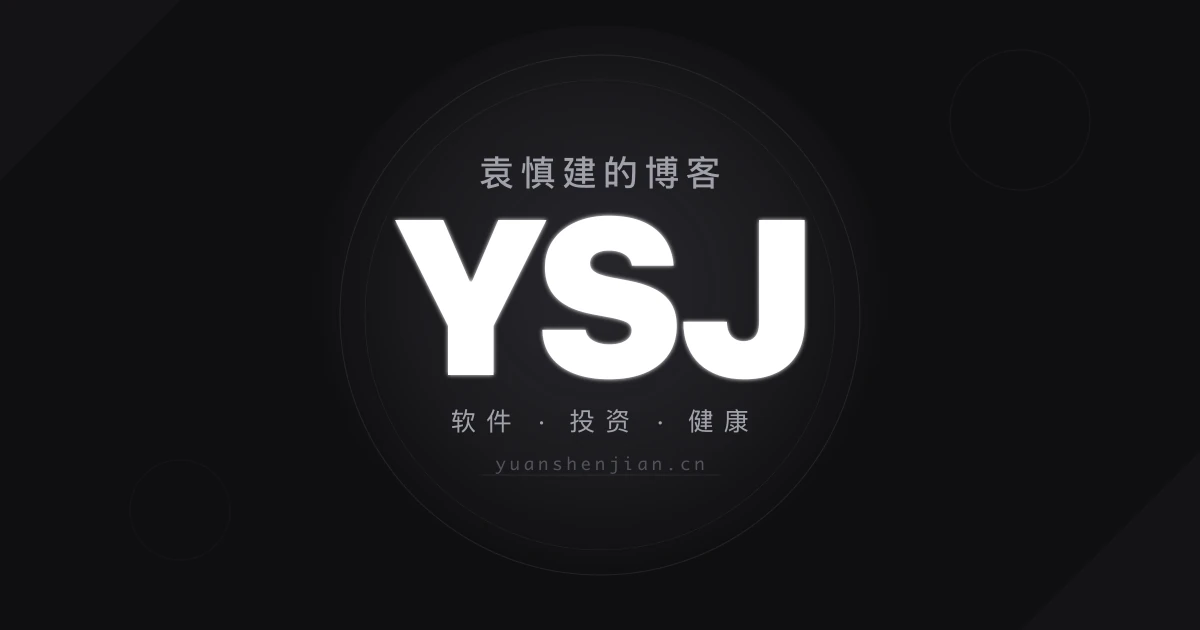
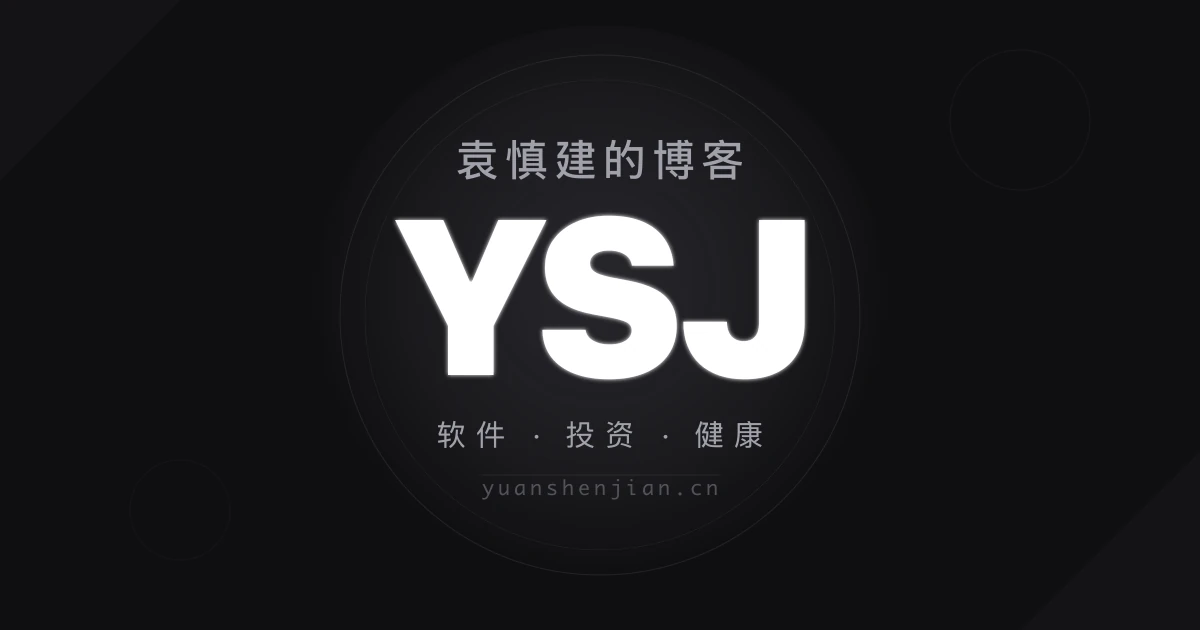
feat: polish

Changed region(s): [[0.37, 0.2111, 0.6167, 0.3016], [0.37, 0.6333, 0.555, 0.7841], [0.555, 0.6333, 0.6475, 0.7238]]

diff --git a/scripts/generate-og-image.js b/scripts/generate-og-image.js
@@ -59,12 +59,12 @@ const svg = `
   <!-- 左下角圆环装饰 -->
   <circle cx="180" cy="510" r="50" fill="none" stroke="${accentMuted}" stroke-width="1" opacity="0.12"/>
   
-  <!-- 袁慎建的博客 - 继续下移 -->
-  <text x="600" y="185" font-family="system-ui, -apple-system, BlinkMacSystemFont, 'Segoe UI', sans-serif" font-size="36" font-weight="500" fill="${accentColor}" text-anchor="middle" letter-spacing="6">
+  <!-- 袁慎建的博客 - 字体放大 -->
+  <text x="600" y="175" font-family="system-ui, -apple-system, BlinkMacSystemFont, 'Segoe UI', sans-serif" font-size="44" font-weight="500" fill="${accentColor}" text-anchor="middle" letter-spacing="6">
     袁慎建的博客
   </text>
   
-  <!-- YSJ 超大字体 - 继续下移 -->
+  <!-- YSJ 超大字体 - 保持不动 -->
   <text x="600" y="375" font-family="system-ui, -apple-system, BlinkMacSystemFont, 'Segoe UI', sans-serif" font-size="220" font-weight="800" fill="${primaryColor}" text-anchor="middle" letter-spacing="-2" filter="url(#glow)">
     YSJ
   </text>
@@ -72,13 +72,13 @@ const svg = `
   <!-- 分隔线 -->
   <line x1="480" y1="475" x2="720" y2="475" stroke="${accentSubtle}" stroke-width="1" opacity="0.4"/>
   
-  <!-- 三个关键词 - 大幅上移 -->
-  <text x="600" y="430" font-family="system-ui, -apple-system, 'Segoe UI', sans-serif" font-size="26" font-weight="400" fill="${accentColor}" text-anchor="middle" letter-spacing="10">
+  <!-- 三个关键词 - 稍微下移，字体放大 -->
+  <text x="600" y="445" font-family="system-ui, -apple-system, 'Segoe UI', sans-serif" font-size="30" font-weight="400" fill="${accentColor}" text-anchor="middle" letter-spacing="10">
     软件 · 投资 · 健康
   </text>
   
-  <!-- 域名 - 大幅上移 -->
-  <text x="600" y="470" font-family="'SF Mono', Monaco, 'Cascadia Code', monospace" font-size="17" font-weight="400" fill="${accentMuted}" text-anchor="middle" letter-spacing="4">
+  <!-- 域名 - 稍微下移，字体放大 -->
+  <text x="600" y="495" font-family="'SF Mono', Monaco, 'Cascadia Code', monospace" font-size="20" font-weight="400" fill="${accentMuted}" text-anchor="middle" letter-spacing="4">
     yuanshenjian.cn
   </text>
 </svg>
